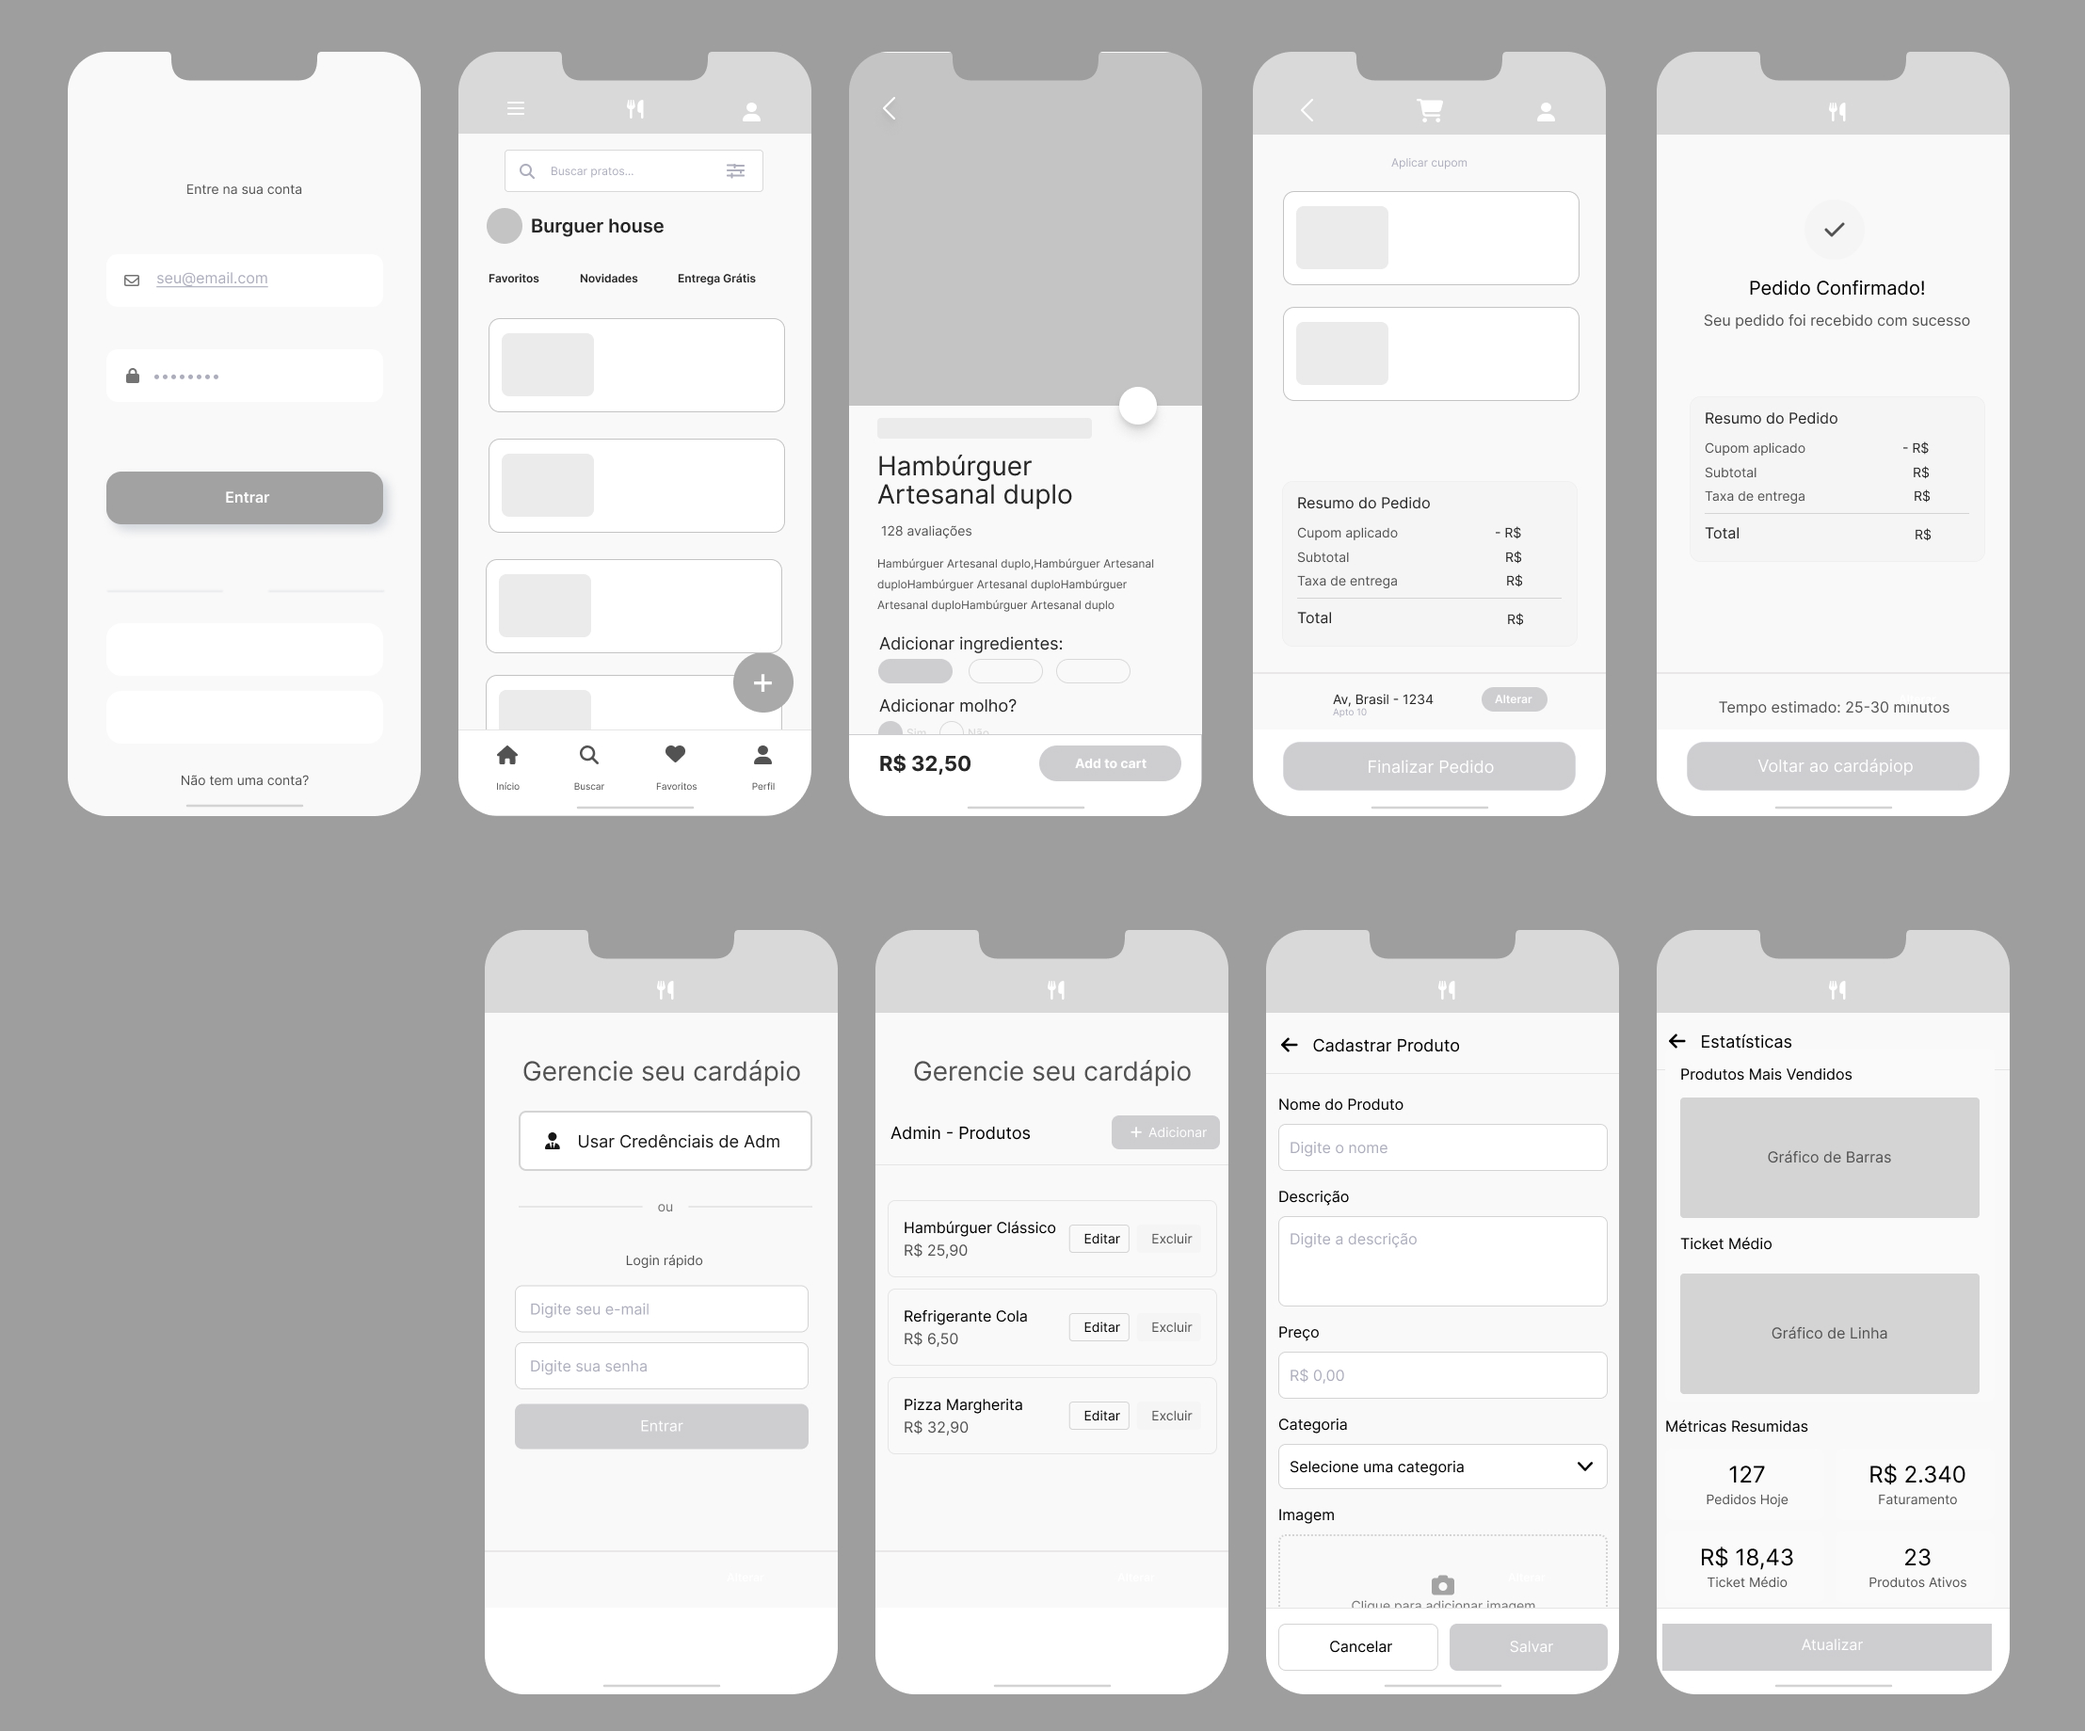
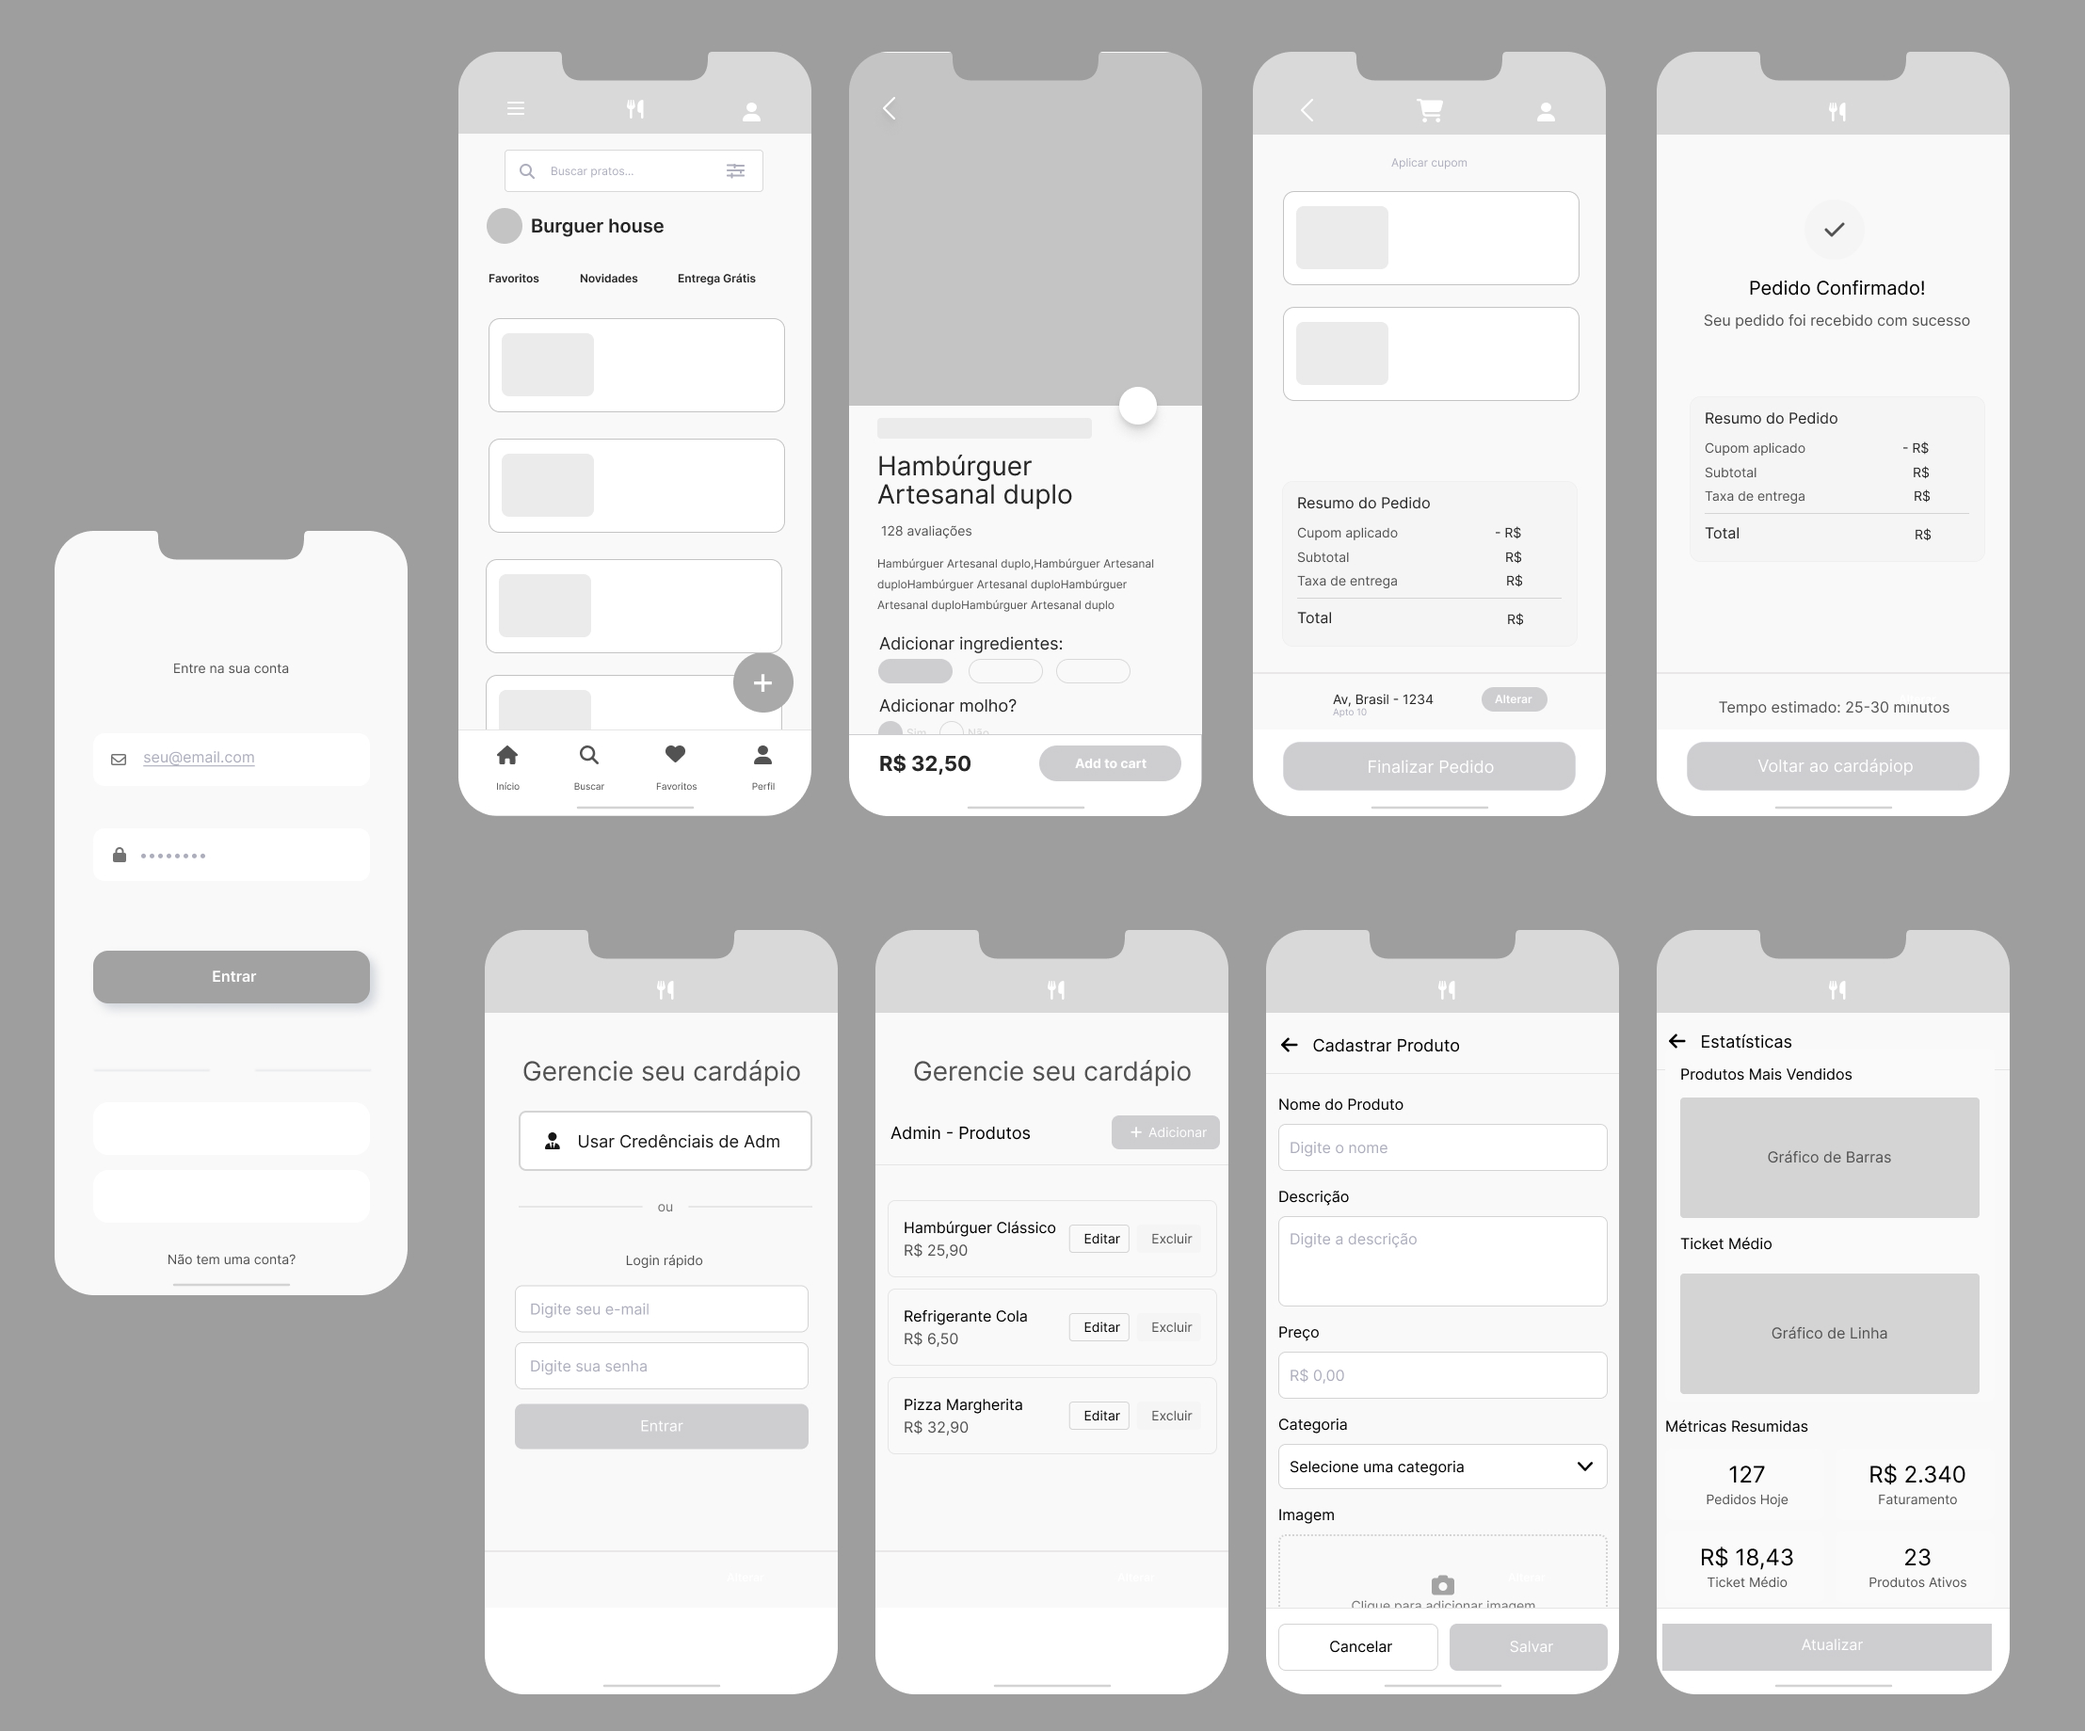
Adiciona estrutura de páginas e atualiza documentos do projeto

Changed region(s): [[0.0, 0.031, 0.2181, 0.7749]]

diff --git a/docs/interface-geteats.md b/docs/interface-geteats.md
@@ -4,7 +4,50 @@ O Projeto de Interface da solução GetEats apresenta a visão geral da experiê
 
 Além disso, o projeto contempla a perspectiva administrativa, oferecendo telas voltadas à gestão do cardápio, cadastro de produtos e acompanhamento de métricas de desempenho. Dessa forma, a solução GetEats não apenas atende aos requisitos funcionais e não funcionais levantados, mas também oferece suporte à operação dos estabelecimentos parceiros, garantindo eficiência e praticidade no atendimento digital.
 
------------------     Discuta como foram elaboradas para atender os requisitos funcionais, não funcionais e as histórias de usuário descritas na Documentação de Especificação.      ------------------
+# Ambientes de Desenvolvimento e Implantação
+
+## 1. Ambiente de Desenvolvimento
+- **Objetivo:** Onde a equipe vai programar e testar o código.  
+- **Ferramentas/Tecnologias:**  
+  - **VS Code:** editor de código, onde vamos escrever e rodar os testes da aplicação.  
+  - **Linguagens:** HTML, CSS e JavaScript.  
+  - **Controle de versão:** GitHub para salvar e organizar o código.  
+- **Uso no processo:** Cada integrante baixa o projeto do GitHub, cria uma parte do sistema no seu computador, testa no navegador e depois envia as alterações para o repositório.  
+
+---
+
+## 2. Ambiente de Teste / Homologação
+- **Objetivo:** Local usado para testar o sistema antes de colocar no ar.  
+- **Ferramentas/Tecnologias:**  
+  - **GitHub (versão de teste):** para simular como o sistema ficará publicado.  
+  - **VS Code**  
+- **Uso no processo:** Depois que uma parte é criada, a equipe publica em uma versão de teste. Assim, é possível verificar se o sistema funciona bem em diferentes celulares e computadores.  
+
+---
+
+## 3. Ambiente de Produção
+- **Objetivo:** Onde o sistema final ficará disponível para os usuários.  
+- **Ferramentas/Tecnologias:**  
+  - **GitHub Pages:** usado para hospedar a versão final.  
+  - **QR Code:** para que os clientes acessem o cardápio pelo celular.  
+- **Uso no processo:** Quando o sistema estiver pronto e aprovado nos testes, ele será publicado na versão final e acessado pelos clientes via QR Code.  
+
+---
+
+# Organização do Código
+- O código será salvo no GitHub, que guarda o histórico e permite que todos trabalhem juntos.  
+- Alterações serão feitas em cópias separadas e depois juntadas ao projeto principal.  
+
+---
+
+# Gestão do Projeto
+- A equipe vai usar ferramentas digitais para organizar as tarefas.  
+- As etapas serão divididas em:  
+  - **A Fazer →** tarefas que ainda não começaram.  
+  - **Em Andamento →** o que está sendo desenvolvido.  
+  - **Em Teste →** o que está sendo verificado.  
+  - **Concluído →** tarefas prontas.  
+- O grupo terá encontros rápidos semanais para alinhar o que já foi feito e o que falta.  
 
 ---
 
@@ -44,6 +87,9 @@ Além disso, o projeto contempla a perspectiva administrativa, oferecendo telas 
 ---
 
 ## Wireframes – Descrição das Telas
+
+![UserFlow](img/wireframe-geteats.jpg)
+
 
 ### Tela de Login (Frame 01)  
 - **Função:** Permitir que o usuário acesse sua conta para visualizar o cardápio personalizado e gerenciar pedidos.  
@@ -100,7 +146,7 @@ Além disso, o projeto contempla a perspectiva administrativa, oferecendo telas 
 
 ---
 
-### Tela de Login do Administrador (conjunto AMD)  
+### Tela de Login do Administrador (conjunto adm 01)  
 - **Função:** Permitir acesso de administradores ao painel de gestão do cardápio.  
 - **Elementos principais:**  
   - Campos de login (e-mail e senha).  
@@ -109,7 +155,7 @@ Além disso, o projeto contempla a perspectiva administrativa, oferecendo telas 
 
 ---
 
-### Tela de Gerenciamento de Produtos (Frame 26)  
+### Tela de Gerenciamento de Produtos (Frame adm 02)  
 - **Função:** Listar produtos cadastrados para edição ou exclusão.  
 - **Elementos principais:**  
   - Lista de produtos com nome e preço.  
@@ -119,7 +165,7 @@ Além disso, o projeto contempla a perspectiva administrativa, oferecendo telas 
 
 ---
 
-### Tela de Cadastro de Produto (Frame 27)  
+### Tela de Cadastro de Produto (Frame adm 03)  
 - **Função:** Adicionar novos produtos ao cardápio.  
 - **Elementos principais:**  
   - Campos de nome, descrição, preço, categoria e upload de imagem.  
@@ -128,7 +174,7 @@ Além disso, o projeto contempla a perspectiva administrativa, oferecendo telas 
 
 ---
 
-### Tela de Estatísticas / Relatórios (Frame 28)  
+### Tela de Estatísticas / Relatórios (Frame adm 04)  
 - **Função:** Exibir dados de desempenho para o administrador.  
 - **Elementos principais:**  
   - Gráficos (barras, linha) com informações de vendas.  

diff --git a/docs/template-geteats.md b/docs/template-geteats.md
@@ -6,6 +6,10 @@ Layout padrão do sistema.
 
  Abaixo estão as guias de estilo utilizadas no projeto.
 
+ # Mais Detalhes
+Para visualizar o protótipo no figma, acesse o link abaixo:  
+[👉 Clique aqui para ver o protótipo](https://www.figma.com/design/gbOOhTUX1gKRxdkRQmgSwr/Cardapio-ON?node-id=1-2&t=tqgvnE2aVUitlV4d-1)
+
 ## Design
 
 **Layout geral (desktop / mobile):**
